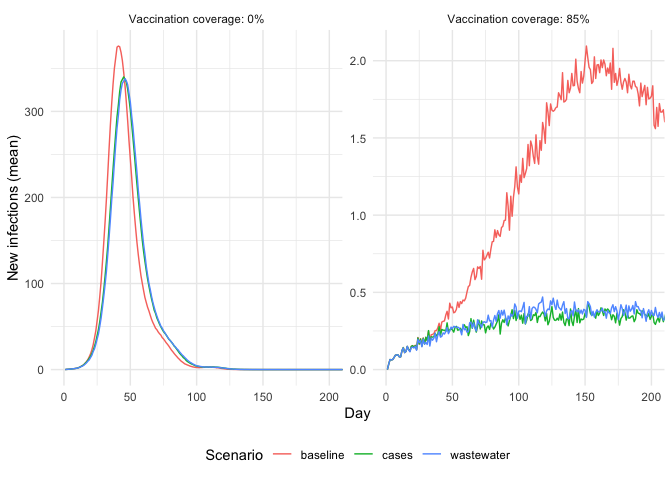
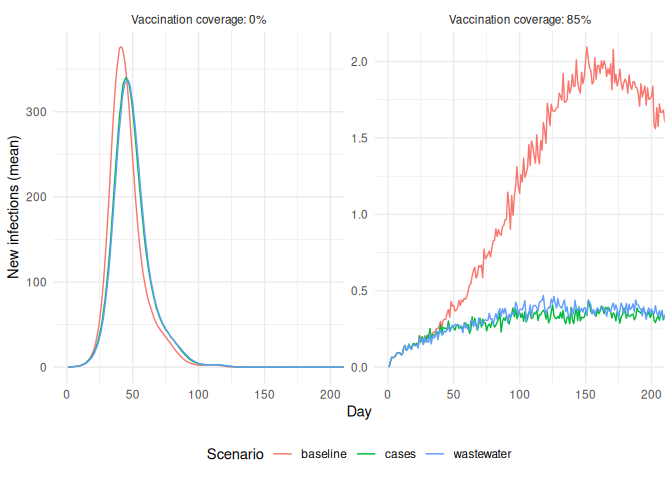
Add pinned web (Codespaces) dev container and CI image build
- Pin the base image by digest (R 4.6.1), CRAN to a dated P3M snapshot,
  and epiworldR 0.19.0, measles 0.4.1, and multigroup.vaccine 0.1.1 to
  specific GitHub commits; fail the build on version mismatch.
- Add .devcontainer/web/devcontainer.json for GitHub Codespaces.
- Add a workflow that builds the container, runs the tests inside it,
  and publishes the image to GHCR from main.
- Re-render the README inside the container and document the setup.

diff --git a/README.md b/README.md
@@ -55,9 +55,7 @@ The shedding model follows the structure of the CDC
 [wwinference](https://github.com/CDCgov/ww-inference-model) model. The
 expected concentration on day $t$ is
 
-$$
-C(t) = \frac{1}{\alpha N} \sum_{\tau=0}^{\tau_{end}} s(\tau)\, G(t - \tau),
-$$
+$$C(t) = \frac{1}{\alpha N} \sum_{\tau=0}^{\tau_{end}} s(\tau)\, G(t - \tau),$$
 
 where $G(d)$ is the total number of genome copies shed by the people
 whose prodrome started on day $d$, $\alpha$ is the wastewater volume per
@@ -230,10 +228,25 @@ Table 2
 
 ## Reproducing
 
+The analysis needs epiworldR 0.19.0, measles 0.4.1, and
+multigroup.vaccine 0.1.1, which are installed from GitHub at pinned
+commits. The easiest way to get them is the dev container
+(`.devcontainer/Containerfile`), which also pins the R version and the
+CRAN snapshot:
+
+- **In the browser**: [![Open in GitHub
+  Codespaces](https://github.com/codespaces/badge.svg)](https://codespaces.new/EpiForeSITE/wastewater-econ-abm?devcontainer_path=.devcontainer/web/devcontainer.json)
+  (uses `.devcontainer/web/devcontainer.json`).
+- **Locally**: open the project in VS Code with the Dev Containers
+  extension (uses `.devcontainer/devcontainer.json`), or build the image
+  directly with
+  `docker build -f .devcontainer/Containerfile .devcontainer`.
+
+The image is built and tested by the `Dev container` GitHub Actions
+workflow, and published as `ghcr.io/epiforesite/wastewater-econ-abm-dev`
+from `main`. Inside the container:
+
 ``` r
-# Requires epiworldR >= 0.19.0 and measles >= 0.4.1
-# (https://github.com/UofUEpiBio/epiworldR, https://github.com/UofUEpiBio/measles),
-# multigroup.vaccine, data.table, ggplot2, and tinytest.
 source("analysis/run-scenarios.R")   # writes analysis/results.rds
 quarto::quarto_render("README.qmd")
 tinytest::run_test_dir("tests")
